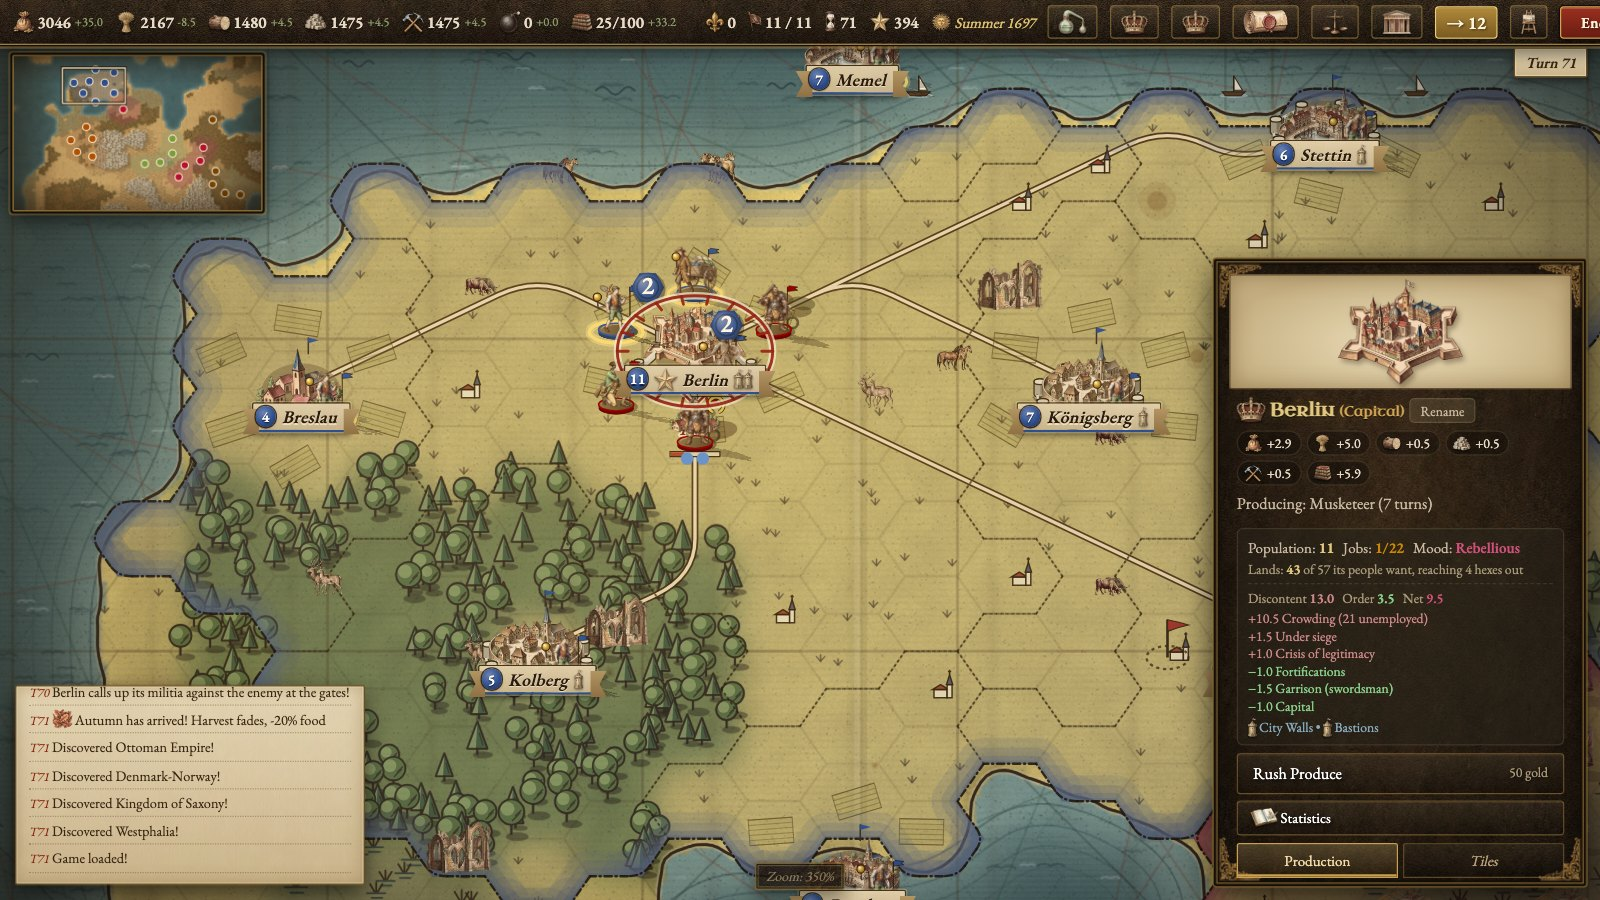
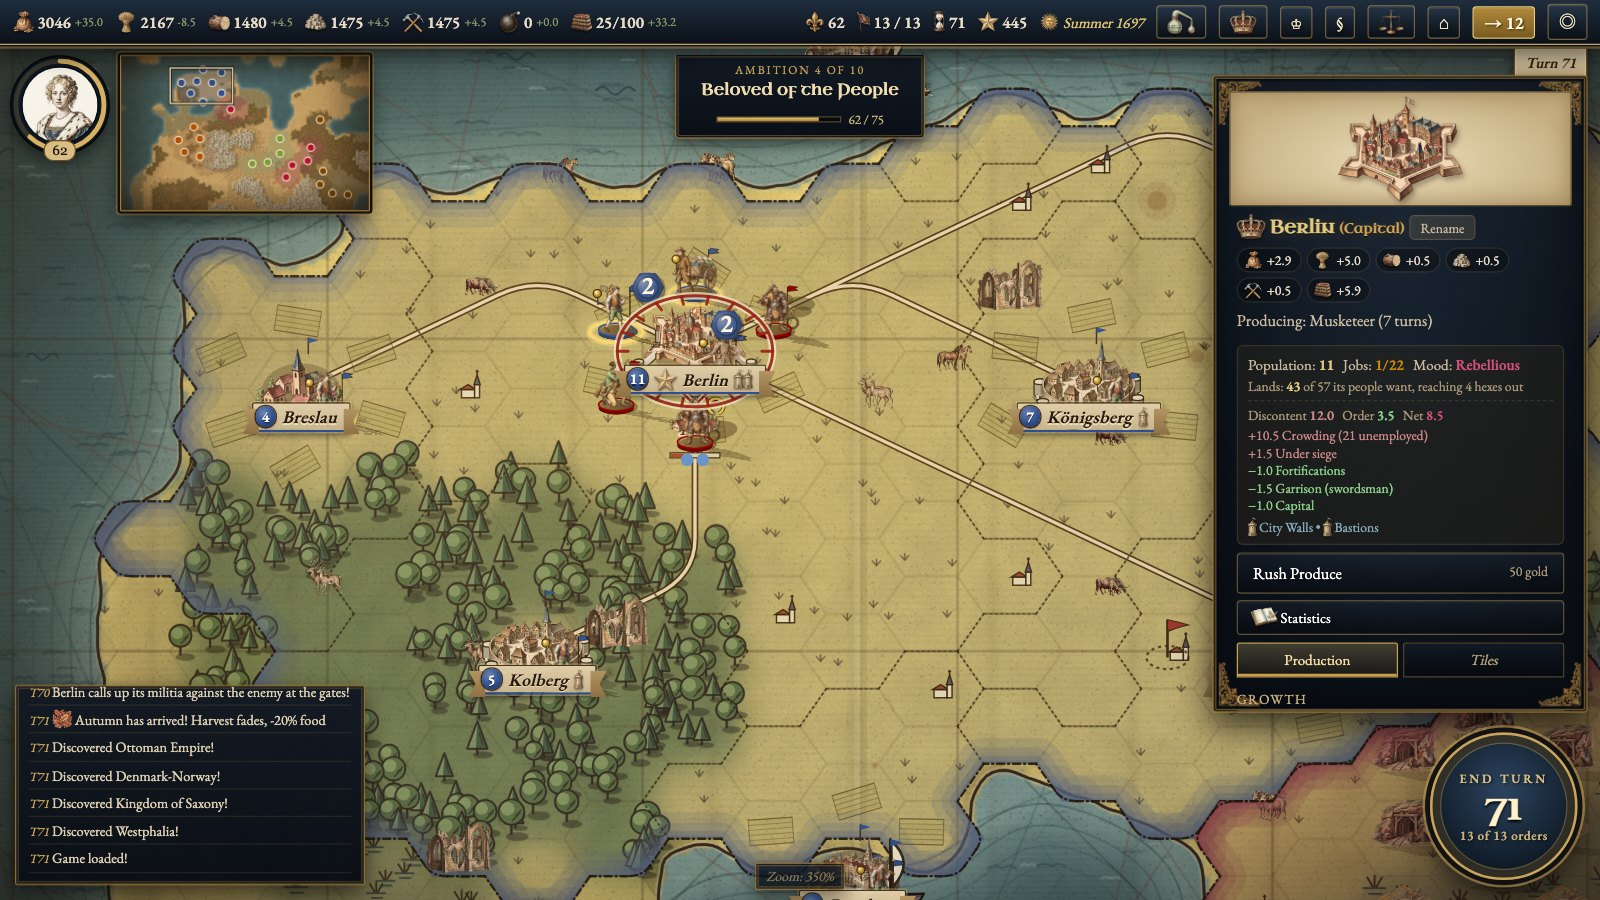
Website: new Standards In Smoke screenshots in the game's navy and gold interface (ruler's medallion, ambition plaque, end-turn crest, action bar)

diff --git a/standards-in-smoke.html b/standards-in-smoke.html
@@ -62,7 +62,7 @@
   }
   </script>
 
-  <link rel="preload" as="image" href="media/standards-in-smoke/01-title.jpg?v=20261031" fetchpriority="high">
+  <link rel="preload" as="image" href="media/standards-in-smoke/01-title.jpg?v=20261031b" fetchpriority="high">
   <link rel="stylesheet" href="styles.css?v=20261031n">
   <link rel="preload" href="fonts/Oswald-latin.woff2" as="font" type="font/woff2" crossorigin>
   <script type="application/ld+json">
@@ -94,7 +94,7 @@
   </nav>
 
   <!-- The game's own art, blurred out behind the head of the page -->
-  <div class="sp-backdrop" style="background-image: url('media/standards-in-smoke/01-title.jpg?v=20261031')"></div>
+  <div class="sp-backdrop" style="background-image: url('media/standards-in-smoke/01-title.jpg?v=20261031b')"></div>
 
   <main class="sp-page" id="main">
     <div class="sp-wrap">
@@ -125,47 +125,47 @@
               <button class="sp-thumb is-video is-active" data-type="video"
                       data-src="smoke_trailer.mp4?v=20261031" data-src-sm="smoke_trailer_720.mp4?v=20261031" data-poster="smoke_trailer_poster.jpg?v=20261031"
                       data-caption="The trailer &mdash; chart a blank world, found towns, raise their walls, and march your regiments until the whole map is yours.">
-                <img src="media/standards-in-smoke/thumbs/trailer.jpg?v=20261031" alt="Play the Standards In Smoke trailer" loading="lazy">
+                <img src="media/standards-in-smoke/thumbs/trailer.jpg?v=20261031b" alt="Play the Standards In Smoke trailer" loading="lazy">
               </button>
-              <button class="sp-thumb" data-type="image" data-src="media/standards-in-smoke/01-title.jpg?v=20261031"
+              <button class="sp-thumb" data-type="image" data-src="media/standards-in-smoke/01-title.jpg?v=20261031b"
                       data-caption="The title screen: a strategy game of powder and kings, drawn as an old atlas.">
-                <img src="media/standards-in-smoke/thumbs/01-title.jpg?v=20261031" alt="The Standards In Smoke title screen" loading="lazy">
+                <img src="media/standards-in-smoke/thumbs/01-title.jpg?v=20261031b" alt="The Standards In Smoke title screen" loading="lazy">
               </button>
-              <button class="sp-thumb" data-type="image" data-src="media/standards-in-smoke/02-close.jpg?v=20261031"
+              <button class="sp-thumb" data-type="image" data-src="media/standards-in-smoke/02-close.jpg?v=20261031b"
                       data-caption="Close in: a walled town, regiments on their wargame bases, and the hexes a musketeer can reach.">
-                <img src="media/standards-in-smoke/thumbs/02-close.jpg?v=20261031" alt="A walled town and regiments on painted bases on the hex chart" loading="lazy">
+                <img src="media/standards-in-smoke/thumbs/02-close.jpg?v=20261031b" alt="A walled town and regiments on painted bases on the hex chart" loading="lazy">
               </button>
-              <button class="sp-thumb" data-type="image" data-src="media/standards-in-smoke/03-world.jpg?v=20261031"
+              <button class="sp-thumb" data-type="image" data-src="media/standards-in-smoke/03-world.jpg?v=20261031b"
                       data-caption="The whole world on the chartmaker&rsquo;s desk: realms, seas, and everything still to take.">
-                <img src="media/standards-in-smoke/thumbs/03-world.jpg?v=20261031" alt="The world chart lying on a leather desk with an inkwell and dividers" loading="lazy">
+                <img src="media/standards-in-smoke/thumbs/03-world.jpg?v=20261031b" alt="The world chart lying on a leather desk with an inkwell and dividers" loading="lazy">
               </button>
-              <button class="sp-thumb" data-type="image" data-src="media/standards-in-smoke/04-city.jpg?v=20261031"
+              <button class="sp-thumb" data-type="image" data-src="media/standards-in-smoke/04-city.jpg?v=20261031b"
                       data-caption="A town&rsquo;s panel: production, jobs, lands that grow with its people, and its walls.">
-                <img src="media/standards-in-smoke/thumbs/04-city.jpg?v=20261031" alt="The city panel for Berlin over the map" loading="lazy">
+                <img src="media/standards-in-smoke/thumbs/04-city.jpg?v=20261031b" alt="The city panel for Berlin over the map" loading="lazy">
               </button>
-              <button class="sp-thumb" data-type="image" data-src="media/standards-in-smoke/05-tech.jpg?v=20261031"
+              <button class="sp-thumb" data-type="image" data-src="media/standards-in-smoke/05-tech.jpg?v=20261031b"
                       data-caption="The tech tree, and the long road from the crossbow to the rifled musket.">
-                <img src="media/standards-in-smoke/thumbs/05-tech.jpg?v=20261031" alt="The technology tree" loading="lazy">
+                <img src="media/standards-in-smoke/thumbs/05-tech.jpg?v=20261031b" alt="The technology tree" loading="lazy">
               </button>
-              <button class="sp-thumb" data-type="image" data-src="media/standards-in-smoke/06-kingdoms.jpg?v=20261031"
+              <button class="sp-thumb" data-type="image" data-src="media/standards-in-smoke/06-kingdoms.jpg?v=20261031b"
                       data-caption="Every kingdom on the map, what it thinks of you, and the treaties on offer.">
-                <img src="media/standards-in-smoke/thumbs/06-kingdoms.jpg?v=20261031" alt="The kingdoms panel listing rival realms" loading="lazy">
+                <img src="media/standards-in-smoke/thumbs/06-kingdoms.jpg?v=20261031b" alt="The kingdoms panel listing rival realms" loading="lazy">
               </button>
-              <button class="sp-thumb" data-type="image" data-src="media/standards-in-smoke/07-court.jpg?v=20261031"
+              <button class="sp-thumb" data-type="image" data-src="media/standards-in-smoke/07-court.jpg?v=20261031b"
                       data-caption="The royal court: the noble houses, their heads, and how far each can be trusted.">
-                <img src="media/standards-in-smoke/thumbs/07-court.jpg?v=20261031" alt="The royal court panel showing noble houses" loading="lazy">
+                <img src="media/standards-in-smoke/thumbs/07-court.jpg?v=20261031b" alt="The royal court panel showing noble houses" loading="lazy">
               </button>
-              <button class="sp-thumb" data-type="image" data-src="media/standards-in-smoke/08-laws.jpg?v=20261031"
+              <button class="sp-thumb" data-type="image" data-src="media/standards-in-smoke/08-laws.jpg?v=20261031b"
                       data-caption="Laws of the realm: governance, labour, culture and order, each a trade.">
-                <img src="media/standards-in-smoke/thumbs/08-laws.jpg?v=20261031" alt="The laws of the realm panel" loading="lazy">
+                <img src="media/standards-in-smoke/thumbs/08-laws.jpg?v=20261031b" alt="The laws of the realm panel" loading="lazy">
               </button>
-              <button class="sp-thumb" data-type="image" data-src="media/standards-in-smoke/09-battle.jpg?v=20261031"
+              <button class="sp-thumb" data-type="image" data-src="media/standards-in-smoke/09-battle.jpg?v=20261031b"
                       data-caption="Battle: musket lines firing into each other through the powder smoke.">
-                <img src="media/standards-in-smoke/thumbs/09-battle.jpg?v=20261031" alt="Two musket lines firing in clouds of powder smoke" loading="lazy">
+                <img src="media/standards-in-smoke/thumbs/09-battle.jpg?v=20261031b" alt="Two musket lines firing in clouds of powder smoke" loading="lazy">
               </button>
-              <button class="sp-thumb" data-type="image" data-src="media/standards-in-smoke/10-siege.jpg?v=20261031"
+              <button class="sp-thumb" data-type="image" data-src="media/standards-in-smoke/10-siege.jpg?v=20261031b"
                       data-caption="A siege: an army and its guns ringing the bastioned town of Dresden.">
-                <img src="media/standards-in-smoke/thumbs/10-siege.jpg?v=20261031" alt="An army surrounding a fortified town" loading="lazy">
+                <img src="media/standards-in-smoke/thumbs/10-siege.jpg?v=20261031b" alt="An army surrounding a fortified town" loading="lazy">
               </button>
             </div>
             <button class="sp-strip-arrow" data-dir="1" aria-label="Scroll thumbnails right">&#8250;</button>

diff --git a/presskit.html b/presskit.html
@@ -152,10 +152,10 @@
         </div>
       </div>
       <div class="pk-shots">
-        <a href="media/standards-in-smoke/02-close.jpg?v=20261031"><img src="media/standards-in-smoke/thumbs/02-close.jpg?v=20261031" alt="A walled town and regiments on the hex chart" loading="lazy"></a>
-        <a href="media/standards-in-smoke/03-world.jpg?v=20261031"><img src="media/standards-in-smoke/thumbs/03-world.jpg?v=20261031" alt="The world chart on the chartmaker's desk" loading="lazy"></a>
-        <a href="media/standards-in-smoke/09-battle.jpg?v=20261031"><img src="media/standards-in-smoke/thumbs/09-battle.jpg?v=20261031" alt="Musket lines firing in powder smoke" loading="lazy"></a>
-        <a href="media/standards-in-smoke/10-siege.jpg?v=20261031"><img src="media/standards-in-smoke/thumbs/10-siege.jpg?v=20261031" alt="An army besieging a fortified town" loading="lazy"></a>
+        <a href="media/standards-in-smoke/02-close.jpg?v=20261031b"><img src="media/standards-in-smoke/thumbs/02-close.jpg?v=20261031b" alt="A walled town and regiments on the hex chart" loading="lazy"></a>
+        <a href="media/standards-in-smoke/03-world.jpg?v=20261031b"><img src="media/standards-in-smoke/thumbs/03-world.jpg?v=20261031b" alt="The world chart on the chartmaker's desk" loading="lazy"></a>
+        <a href="media/standards-in-smoke/09-battle.jpg?v=20261031b"><img src="media/standards-in-smoke/thumbs/09-battle.jpg?v=20261031b" alt="Musket lines firing in powder smoke" loading="lazy"></a>
+        <a href="media/standards-in-smoke/10-siege.jpg?v=20261031b"><img src="media/standards-in-smoke/thumbs/10-siege.jpg?v=20261031b" alt="An army besieging a fortified town" loading="lazy"></a>
       </div>
 
       <h2 class="sp-h2" id="contact">Contact</h2>
